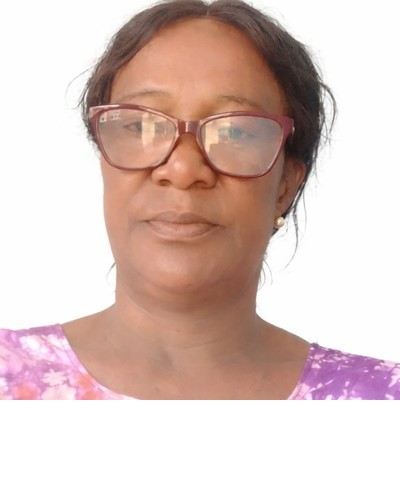
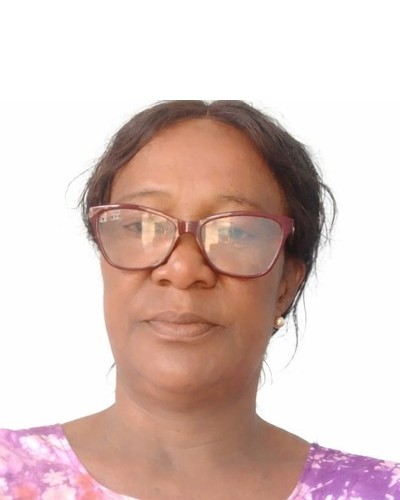
fix: photo Esther recadrée 400x500 avec visage bien centré

diff --git a/Bureau-National.html b/Bureau-National.html
@@ -230,7 +230,7 @@
         <p class="role">Secrétaire Général Adjoint</p>
       </div>
       <div class="membre-card">
-        <img src="images/esther.jpg" alt="Rév. MOUSSA Esther" style="object-position: center 60%;"/>
+        <img src="images/esther.jpg" alt="Rév. MOUSSA Esther" style="object-position: center top;"/>
         <h3>Rév. MOUSSA Esther</h3>
         <p class="role">Trésorière Générale</p>
       </div>
